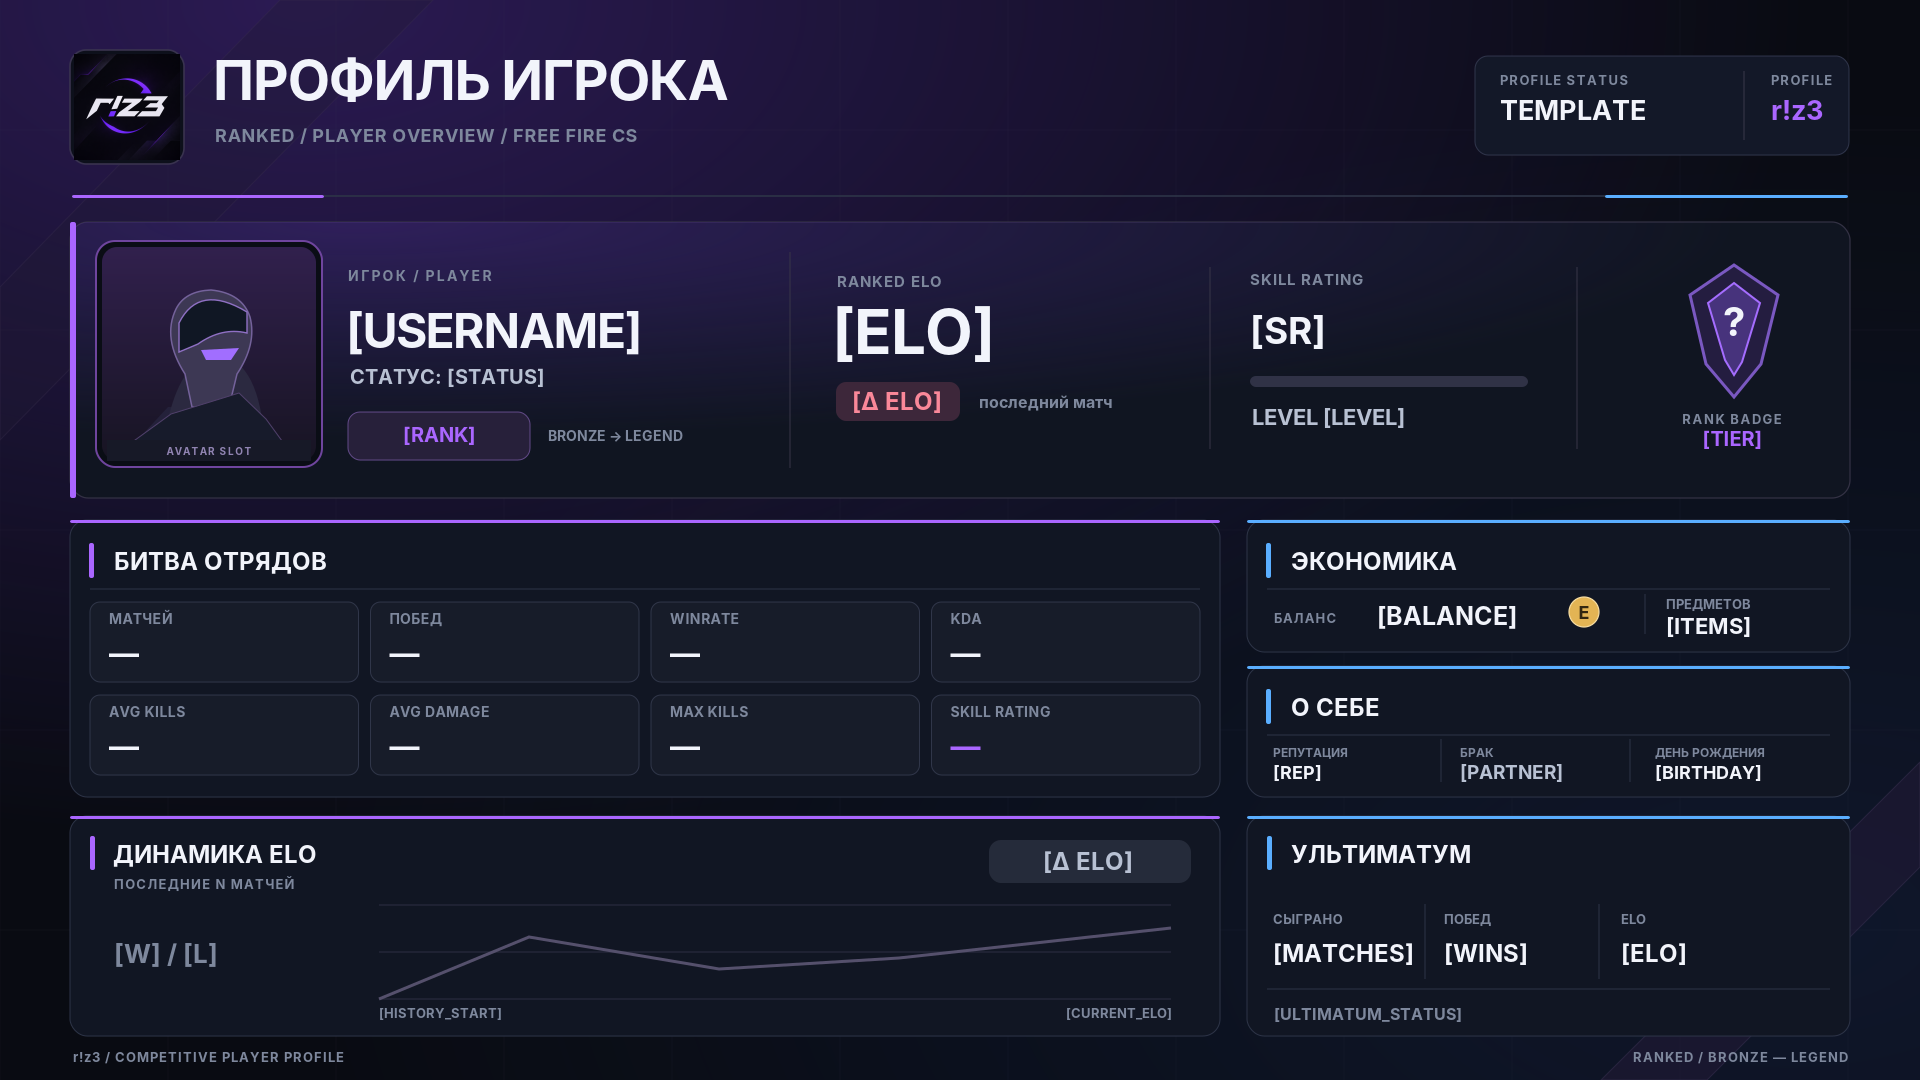
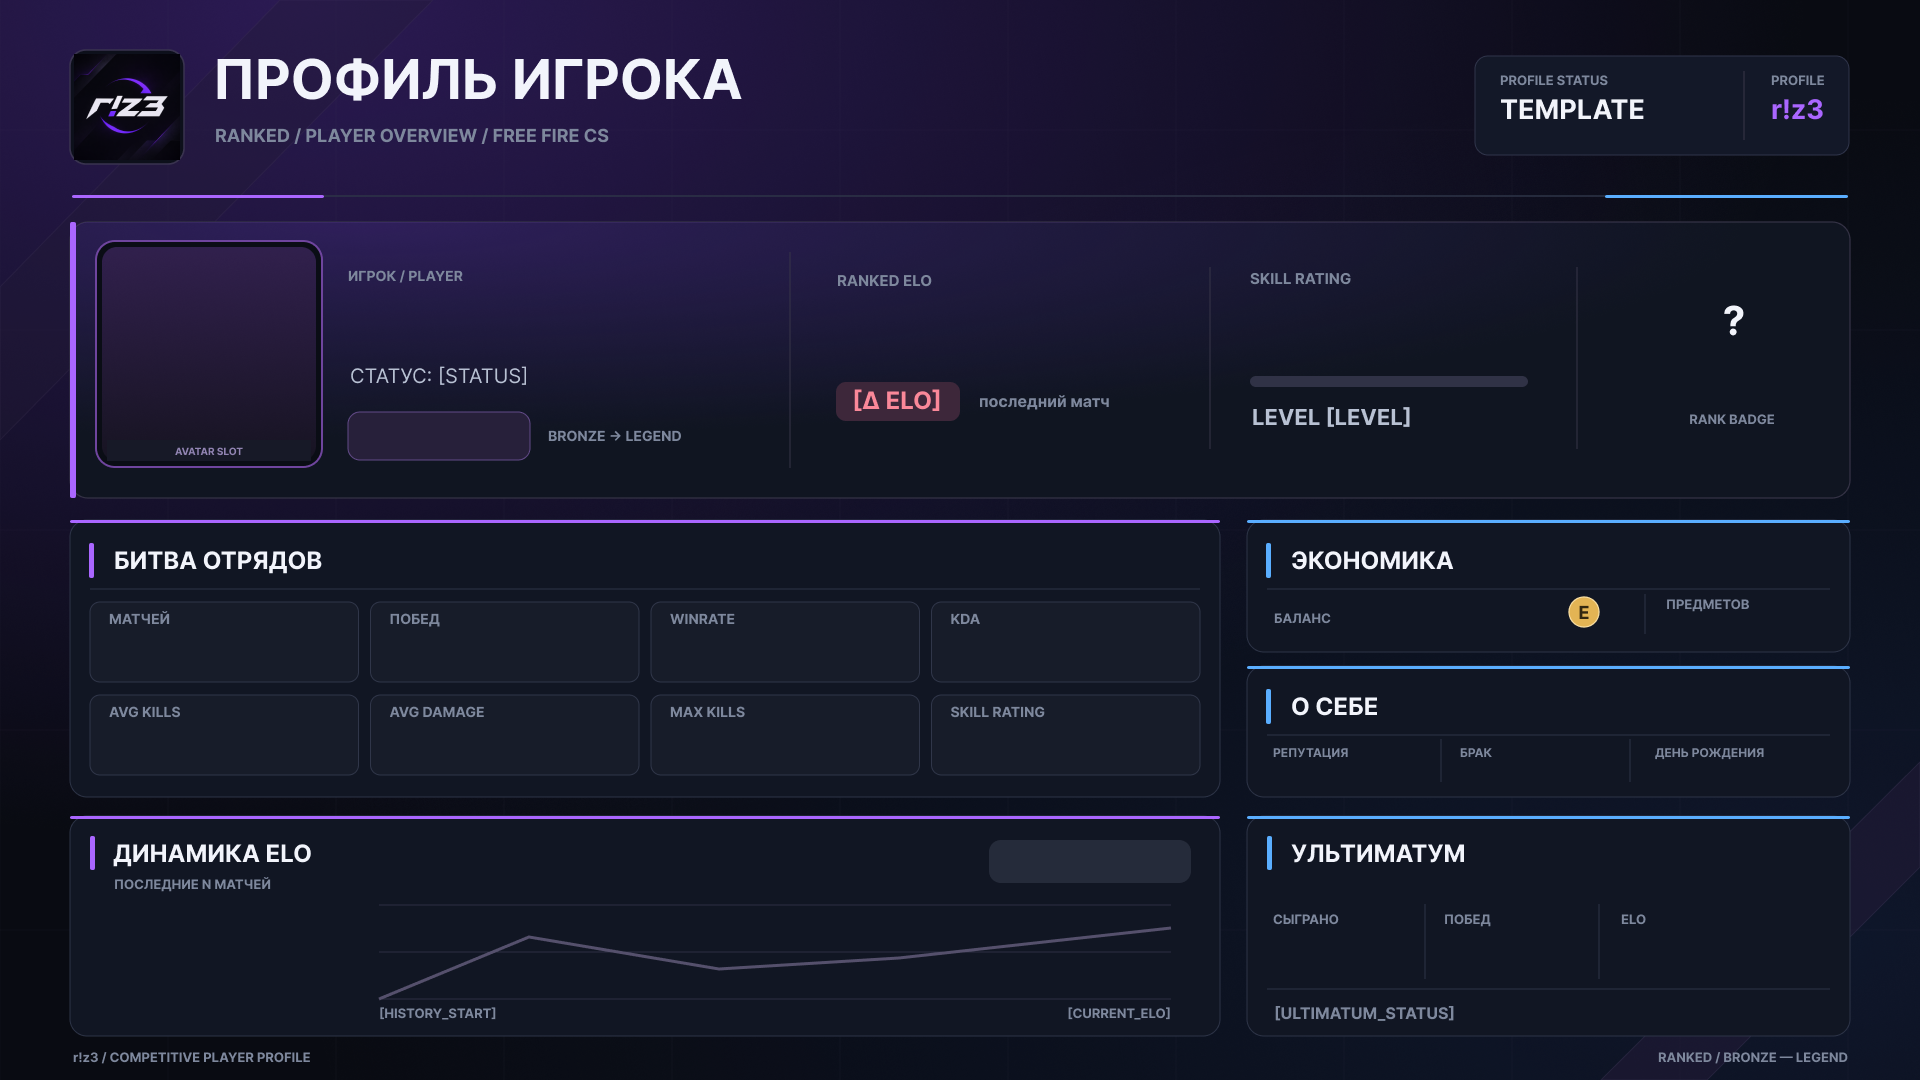
Profile card: migrate to updated r!z3 template (v2)
New template has no value placeholders — text is drawn directly;
remaining placeholders ([STATUS], [LEVEL], badge "?", chart axis
labels, etc.) are restored via cv2.inpaint to preserve gradients.
Coordinates re-measured from the new PNG (OCR + pixel analysis):
username 348, ELO 354, SR 344, stats values 665/756, ult 962, etc.
Decorative chart diagonal is inpainted and replaced by real ELO graph.

Generated with [Devin](https://devin.ai)

diff --git a/utils/profile_renderer.py b/utils/profile_renderer.py
@@ -1,8 +1,10 @@
 """Рендерер графической карточки профиля 1920x1080 (Player Profile).
 
-Использует чистый template PNG как подложку: динамические области
-затираются цветом панели, поверх рисуются актуальные данные.
-Все координаты/якоря/кегли соответствуют riz3_player_profile_example.svg.
+Использует чистый template PNG как подложку. Новый template не содержит
+плейсхолдеров значений — текст рисуется напрямую; зоны с оставшимися
+плейсхолдерами ([STATUS], [LEVEL], «?», [HISTORY_START] и т.п.)
+восстанавливаются через cv2.inpaint.
+Координаты измерены по riz3_player_profile_template 1.png (OCR + анализ).
 """
 
 from __future__ import annotations
@@ -12,6 +14,8 @@ import io
 import logging
 from pathlib import Path
 
+import cv2
+import numpy as np
 from PIL import Image, ImageDraw, ImageFont
 
 logger = logging.getLogger(__name__)
@@ -23,10 +27,10 @@ FONTS_DIR = ASSETS_DIR / "fonts"
 CARD_RENDER_SEM = asyncio.Semaphore(2)
 
 # Цвета из example.svg
-C_TEXT = (242, 244, 251)     # #F2F4FB
-C_MUTED = (126, 136, 157)   # #7E889D
-C_SOFT = (184, 193, 211)    # #B8C1D3
-C_VIOLET = (170, 102, 255)  # #AA66FF
+C_TEXT = (242, 244, 251)        # #F2F4FB
+C_MUTED = (126, 136, 157)      # #7E889D
+C_SOFT = (184, 193, 211)       # #B8C1D3
+C_VIOLET = (170, 102, 255)     # #AA66FF
 C_DELTA_NEG = (250, 136, 153)  # #FA8899
 C_GREEN = (74, 222, 128)
 
@@ -52,8 +56,19 @@ def _base() -> Image.Image:
     return _base_cache.copy()
 
 
-def _erase(img: Image.Image, color, x1, y1, x2, y2) -> None:
-    ImageDraw.Draw(img).rectangle([x1, y1, x2, y2], fill=color)
+def _inpaint(img: Image.Image, box, radius: int = 5) -> None:
+    """Восстановить область с плейсхолдером (градиенты сохраняются)."""
+    x1, y1, x2, y2 = [int(v) for v in box]
+    arr = np.array(img)
+    bgr = cv2.cvtColor(arr, cv2.COLOR_RGBA2BGR)
+    mask = np.zeros(bgr.shape[:2], np.uint8)
+    mask[y1:y2, x1:x2] = 255
+    # feather mask, чтобы не было резких краёв
+    mask = cv2.GaussianBlur(mask, (0, 0), 2)
+    _, m = cv2.threshold(mask, 40, 255, cv2.THRESH_BINARY)
+    fixed = cv2.inpaint(bgr, m, radius, cv2.INPAINT_TELEA)
+    img.paste(Image.fromarray(cv2.cvtColor(fixed, cv2.COLOR_BGR2RGBA)),
+              (0, 0))
 
 
 def _text(draw: ImageDraw.ImageDraw, xy, s: str, size: int,
@@ -90,130 +105,114 @@ def render_profile_png(data: dict, avatar_png: bytes | None = None,
     img = _base()
     draw = ImageDraw.Draw(img)
 
-    # --- Цвета панелей (сэмпл из template) ---
-    c_top = img.getpixel((700, 300))
-    c_head = img.getpixel((1600, 100))
-    c_stats = img.getpixel((600, 620))
-    c_econ = img.getpixel((1400, 600))
-    c_about = img.getpixel((1400, 720))
-    c_chart = img.getpixel((600, 950))
-    c_ult = img.getpixel((1400, 950))
-
     # ============ ШАПКА (справа) ============
-    _erase(img, c_head, 1485, 72, 1900, 140)
+    _inpaint(img, (1485, 72, 1900, 140))
     _text(draw, (1500, 85), "PROFILE STATUS", 13, C_MUTED)
-    _text(draw, (1500, 120), "ACTIVE PLAYER", 27, C_TEXT, bold=True)
+    _text(draw, (1500, 120), "ACTIVE PLAYER", 27, C_TEXT)
     _text(draw, (1771, 85), "PROFILE", 13, C_MUTED)
-    _text(draw, (1771, 120), "r!z3", 27, C_VIOLET, bold=True)
+    _text(draw, (1771, 120), "r!z3", 27, C_VIOLET)
 
     # ============ ВЕРХНЯЯ ПАНЕЛЬ ============
-    # Никнейм (fs60 в example)
-    _erase(img, c_top, 330, 295, 1100, 360)
+    # Никнейм (пустой слот — рисуем напрямую)
     name = data.get("name") or "Игрок"
     nstr, nsize = _fit_text(draw, name, 720, 60, min_size=26)
     _text(draw, (346, 348), nstr, nsize, C_TEXT)
 
-    # Статус
-    _erase(img, c_top, 335, 366, 800, 398)
-    _text(draw, (350, 384), f"СТАТУС: {data.get('status') or 'ок'}", 20, C_SOFT)
+    # Статус — в шаблоне «СТАТУС: [STATUS]», затираем строку целиком
+    _inpaint(img, (335, 358, 820, 396), radius=4)
+    _text(draw, (350, 385), f"СТАТУС: {data.get('status') or 'ок'}", 20, C_SOFT)
 
-    # Ранг — violet, по центру x=439 (baseline)
-    _erase(img, c_top, 385, 424, 530, 458)
+    # Ранг — пустой слот
     _text(draw, (439, 442), (data.get("rank_name") or "BRONZE").upper(),
           20, C_VIOLET, anchor="ms")
 
-    # RANKED ELO
-    _erase(img, c_top, 800, 290, 1130, 372)
+    # RANKED ELO — пустой слот
     _text(draw, (832, 354), _fmt(data.get("elo", 1000)), 62, C_TEXT)
-    # Δ ELO последнего матча
-    _erase(img, c_top, 855, 392, 1150, 435)
+
+    # Δ ELO последнего матча — плейсхолдер «[Δ ELO]»
+    _inpaint(img, (840, 382, 1160, 418), radius=4)
     delta = data.get("last_elo_change", 0)
     dcolor = C_GREEN if delta >= 0 else C_DELTA_NEG
     dsign = "+" if delta >= 0 else "−"
     _text(draw, (897, 410), f"{dsign}{abs(delta)}", 24, dcolor, anchor="ms")
-    _text(draw, (979, 408), "последний матч", 16, C_MUTED)
+    # «последний матч» — статичный текст шаблона, оставляем
 
-    # Skill Rating + Level
-    _erase(img, c_top, 1235, 305, 1520, 360)
+    # Skill Rating — пустой слот
     sr = data.get("skill_rating", 0.0)
     _text(draw, (1250, 344), f"{sr:.1f} / 10.0", 37, C_TEXT)
-    _erase(img, c_top, 1235, 408, 1520, 445)
+
+    # LEVEL — «LEVEL [LEVEL]»
+    _inpaint(img, (1235, 400, 1480, 438), radius=4)
     _text(draw, (1252, 425), f"LEVEL {data.get('level', 1)}", 22, C_SOFT)
 
-    # Бейдж ранга + тир
-    _erase(img, c_top, 1560, 240, 1900, 480)
+    # Бейдж ранга — плейсхолдер «?»
+    _inpaint(img, (1690, 295, 1790, 350), radius=6)
     if badge_png:
         try:
             badge = Image.open(io.BytesIO(badge_png)).convert("RGBA")
-            badge.thumbnail((210, 210), Image.LANCZOS)
+            badge.thumbnail((190, 190), Image.LANCZOS)
             img.paste(badge, (1734 - badge.width // 2,
-                              350 - badge.height // 2), badge)
+                              325 - badge.height // 2), badge)
         except Exception:
             logger.warning("Rank badge paste failed")
-    _text(draw, (1732, 446), (data.get("rank_name") or "").upper(),
+    # «RANK BADGE» — статичный лейбл шаблона, оставляем
+    _text(draw, (1732, 447), (data.get("rank_name") or "").upper(),
           20, C_VIOLET, anchor="ms")
 
     # ============ БИТВА ОТРЯДОВ ============
-    # Значения — LEFT-aligned по x лейбла (как в example), fs30
+    # Значения — left-aligned по x лейблов, пустые слоты
     squad_cols = [
-        (109, "МАТЧЕЙ", _fmt(data.get("matches", 0))),
-        (389.5, "ПОБЕД", _fmt(data.get("wins", 0))),
-        (670, "WINRATE", f"{data.get('winrate', 0.0):.1f}%"),
-        (950.5, "KDA", f"{data.get('kda', 0.0):.2f}"),
+        (109, _fmt(data.get("matches", 0))),
+        (389.5, _fmt(data.get("wins", 0))),
+        (670, f"{data.get('winrate', 0.0):.1f}%"),
+        (950.5, f"{data.get('kda', 0.0):.2f}"),
     ]
     squad_cols2 = [
-        (109, "AVG KILLS", f"{data.get('avg_kills', 0.0):.2f}"),
-        (389.5, "AVG DAMAGE", _fmt(data.get("avg_damage", 0))),
-        (670, "MAX KILLS", _fmt(data.get("max_kills", 0))),
-        (950.5, "SKILL RATING", f"{sr:.1f} / 10"),
+        (109, f"{data.get('avg_kills', 0.0):.2f}"),
+        (389.5, _fmt(data.get("avg_damage", 0))),
+        (670, _fmt(data.get("max_kills", 0))),
+        (950.5, f"{sr:.1f} / 10"),
     ]
-    bounds = [(100, 640, 380, 700), (380, 640, 660, 700),
-              (655, 640, 940, 700), (940, 640, 1225, 700),
-              (100, 712, 380, 782), (380, 712, 660, 782),
-              (655, 712, 940, 782), (940, 712, 1225, 782)]
-    for (x1, y1, x2, y2), (cx, lab, val) in zip(bounds[:4], squad_cols):
-        _erase(img, c_stats, x1, y1, x2, y2)
-        _text(draw, (cx, 624), lab, 14, C_MUTED)
-        color = C_VIOLET if lab == "SKILL RATING" else C_TEXT
-        _text(draw, (cx, 664), val, 30, color)
-    for (x1, y1, x2, y2), (cx, lab, val) in zip(bounds[4:], squad_cols2):
-        _erase(img, c_stats, x1, y1, x2, y2)
-        _text(draw, (cx, 717), lab, 14, C_MUTED)
-        color = C_VIOLET if lab == "SKILL RATING" else C_TEXT
-        _text(draw, (cx, 757), val, 30, color)
+    for cx, val in squad_cols:
+        color = C_VIOLET if cx == 950.5 else C_TEXT
+        _text(draw, (cx, 665), val, 30, color)
+    for cx, val in squad_cols2:
+        color = C_VIOLET if cx == 950.5 else C_TEXT
+        _text(draw, (cx, 756), val, 30, color)
 
     # ============ ЭКОНОМИКА ============
-    _erase(img, c_econ, 1350, 600, 1600, 660)
-    _text(draw, (1377, 625), _fmt(data.get("balance", 0)), 31, C_TEXT)
-    _erase(img, c_econ, 1630, 595, 1900, 665)
-    _text(draw, (1666, 634), f"{_fmt(data.get('items', 0))} шт.", 22, C_TEXT)
+    _text(draw, (1377, 627), _fmt(data.get("balance", 0)), 31, C_TEXT)
+    _text(draw, (1666, 635), f"{_fmt(data.get('items', 0))} шт.", 22, C_TEXT)
 
     # ============ О СЕБЕ ============
     about = [
-        (1273, data.get("reputation", 0), C_TEXT),
-        (1460, data.get("partner") or "—", C_SOFT),
-        (1655, data.get("birthday") or "—", C_TEXT),
+        (1273, str(data.get("reputation", 0)), C_TEXT, 1445),
+        (1460, str(data.get("partner") or "—"), C_SOFT, 1620),
+        (1655, str(data.get("birthday") or "—"), C_TEXT, 1880),
     ]
-    for i, (x, val, color) in enumerate(about):
-        x2 = [1445, 1620, 1880][i]
-        _erase(img, c_about, x - 10, 762, x2, 800)
-        vstr, vsize = _fit_text(draw, str(val), x2 - x - 10, 19,
-                                min_size=12)
-        _text(draw, (x, 779), vstr, vsize, color)
+    for x, val, color, x2 in about:
+        vstr, vsize = _fit_text(draw, val, x2 - x - 10, 19, min_size=12)
+        _text(draw, (x, 781), vstr, vsize, color)
 
     # ============ ДИНАМИКА ELO ============
-    _erase(img, c_chart, 95, 858, 1205, 1040)
-    _text(draw, (114, 889),
+    # «ПОСЛЕДНИЕ N МАТЧЕЙ» — в шаблоне с литеральной N, перерисовываем
+    _inpaint(img, (105, 875, 300, 900), radius=4)
+    _text(draw, (114, 890),
           f"ПОСЛЕДНИЕ {data.get('hist_count', 0)} МАТЧЕЙ", 13, C_MUTED)
+
+    # Область графика: убираем декоративную диагональ и возможные
+    # плейсхолдеры, затем рисуем свой график
+    _inpaint(img, (350, 905, 1200, 1002), radius=8)
+    draw = ImageDraw.Draw(img)
+
     total_delta = data.get("chart_delta", 0)
     td_color = C_GREEN if total_delta >= 0 else C_DELTA_NEG
     tdsign = "+" if total_delta >= 0 else "−"
-    _text(draw, (1088, 870), f"{tdsign}{abs(total_delta)} ELO", 24,
-          td_color, anchor="ms")
+    _text(draw, (1150, 935), f"{tdsign}{abs(total_delta)} ELO", 20,
+          td_color, anchor="rs")
 
-    # График: область ~x140-1140, y915-990
     hist = data.get("elo_history") or []  # хронологический список дельт
-    px0, px1, py0, py1 = 150, 1130, 920, 985
+    px0, px1, py0, py1 = 400, 1140, 935, 985
     if hist:
         cum = []
         s = 0
@@ -247,7 +246,7 @@ def render_profile_png(data: dict, avatar_png: bytes | None = None,
         _text(draw, ((px0 + px1) / 2, (py0 + py1) / 2), "НЕТ ДАННЫХ",
               20, C_MUTED, anchor="ms")
 
-    # W/L блок (как в example: лейбл / значение / подпись)
+    # W/L блок
     _text(draw, (114, 942), "ПОБЕДЫ / ПОРАЖЕНИЯ", 12, C_MUTED)
     _text(draw, (114, 980),
           f"{data.get('hist_wins', 0)} / {data.get('hist_losses', 0)}",
@@ -255,22 +254,28 @@ def render_profile_png(data: dict, avatar_png: bytes | None = None,
     _text(draw, (114, 1009),
           f"{data.get('hist_count', 0)} записей в истории", 13, C_MUTED)
 
-    _text(draw, (379, 1018),
+    # Подписи оси — плейсхолдеры [HISTORY_START] / [CURRENT_ELO]
+    _inpaint(img, (370, 1000, 620, 1030), radius=4)
+    _inpaint(img, (1050, 1000, 1200, 1030), radius=4)
+    draw = ImageDraw.Draw(img)
+    _text(draw, (378, 1018),
           f"НАЧАЛО: {_fmt(data.get('hist_start_elo', data.get('elo', 1000)))}",
           13, C_MUTED)
     _text(draw, (1171, 1018), f"СЕЙЧАС: {_fmt(data.get('elo', 1000))}",
           13, C_MUTED, anchor="rs")
 
     # ============ УЛЬТИМАТУМ ============
+    # Значения — пустые слоты
     ult = [
         (1273, _fmt(data.get("ult_matches", 0))),
         (1444, _fmt(data.get("ult_wins", 0))),
         (1621, _fmt(data.get("ult_elo", 1000))),
     ]
     for x, val in ult:
-        _erase(img, c_ult, x - 10, 940, x + 175, 985)
         _text(draw, (x, 962), val, 33, C_TEXT)
-    _erase(img, c_ult, 1250, 1005, 1900, 1038)
+    # [ULTIMATUM_STATUS]
+    _inpaint(img, (1260, 998, 1470, 1030), radius=4)
+    draw = ImageDraw.Draw(img)
     _text(draw, (1274, 1020),
           data.get("ult_status") or "Пока нет сыгранных матчей", 16, C_MUTED)
 
